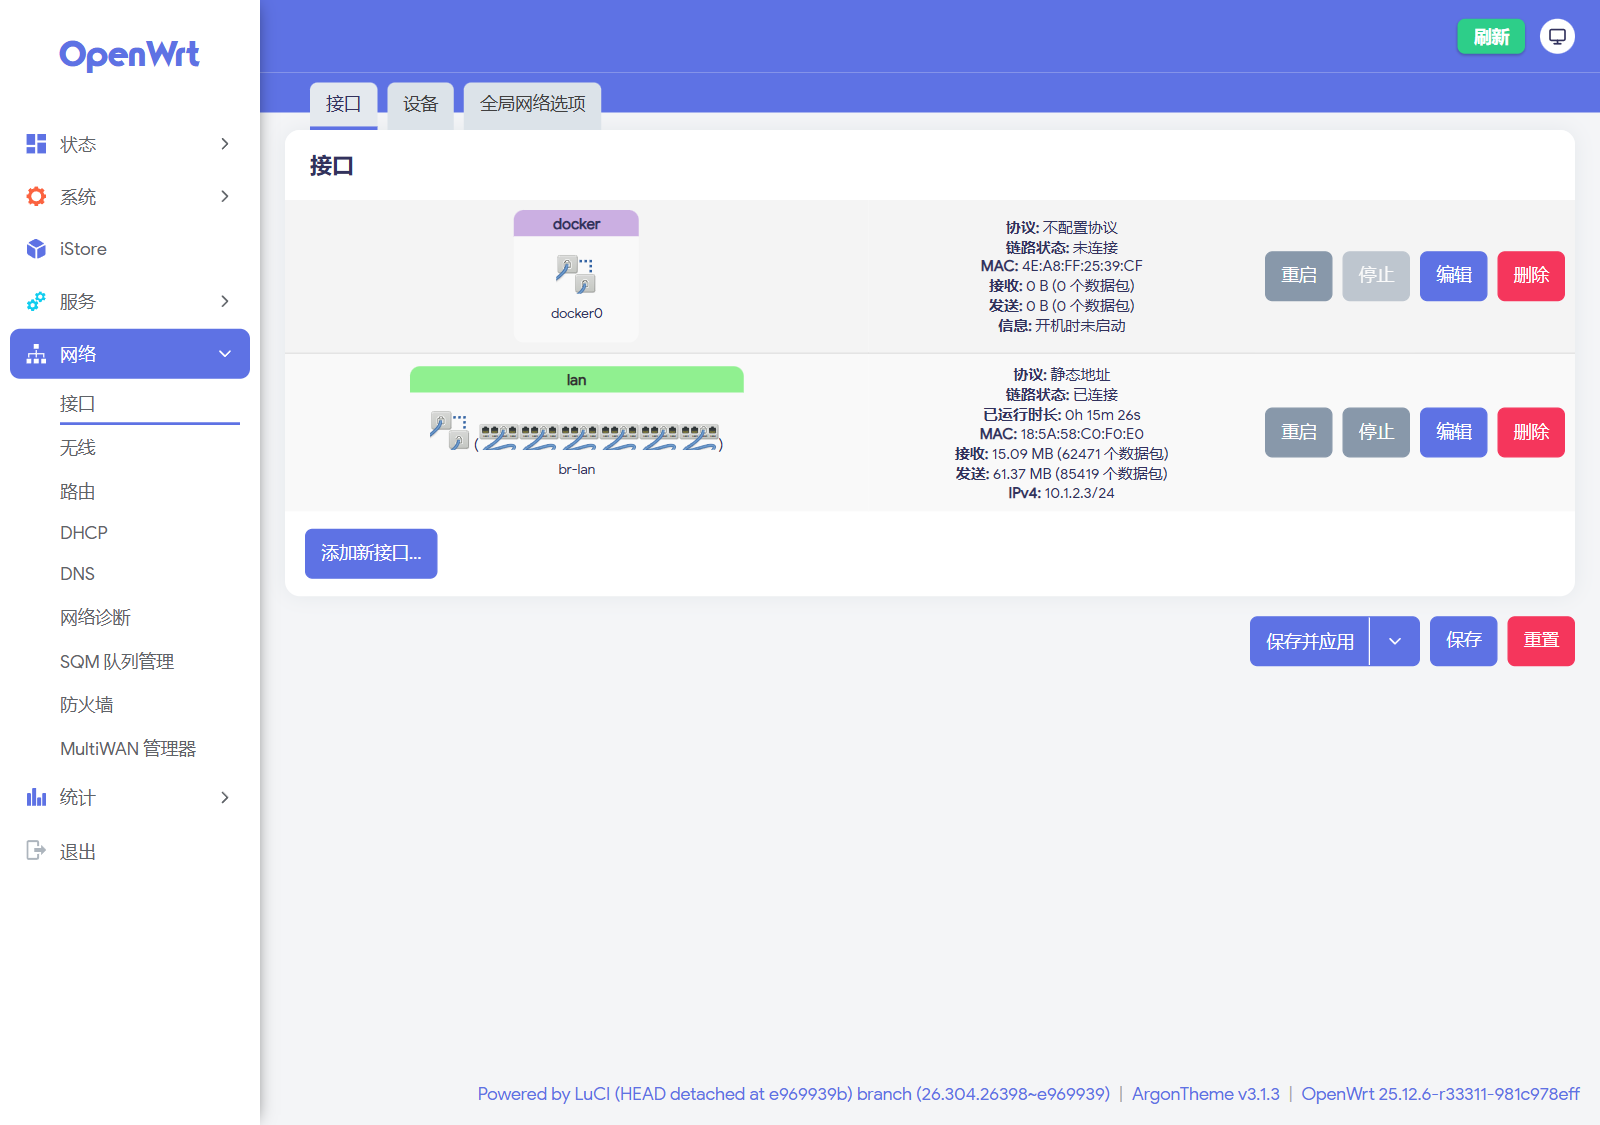
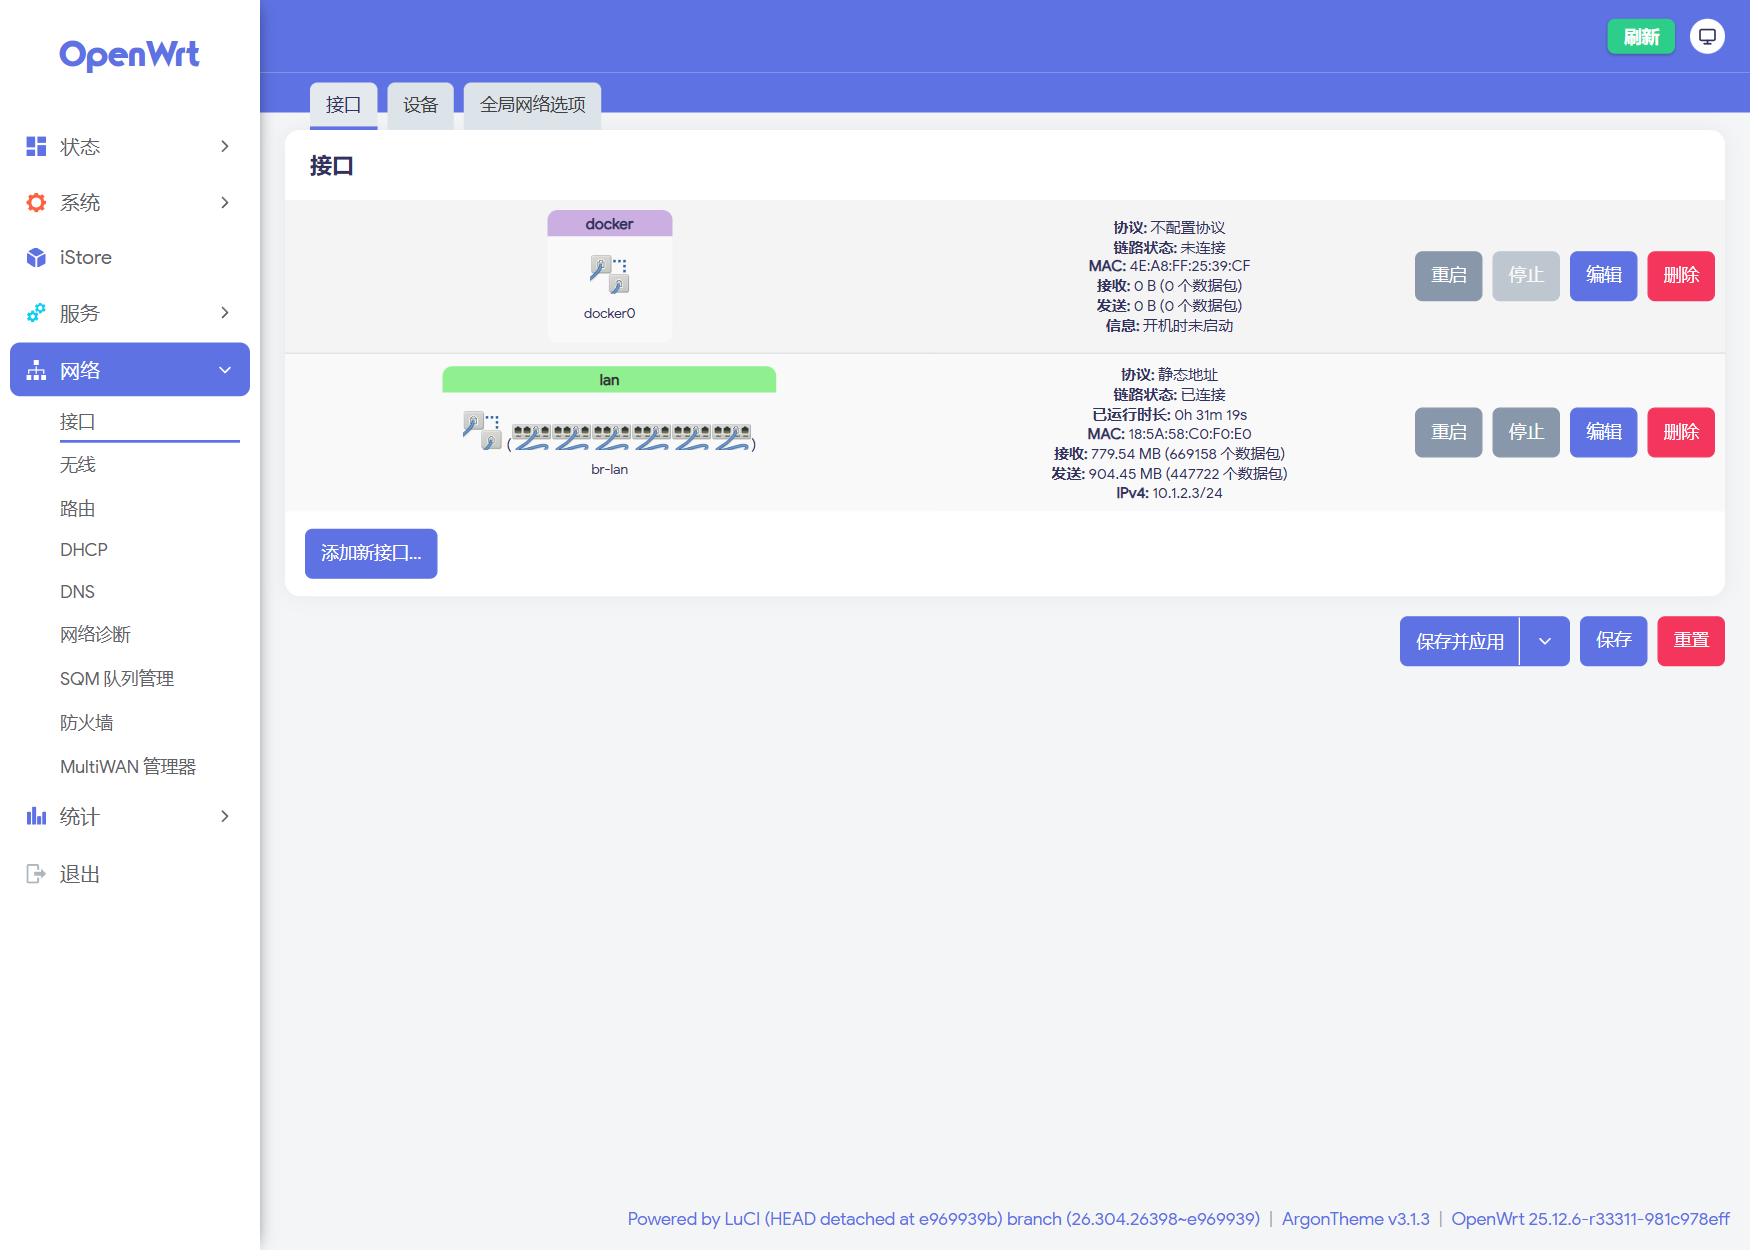
docs: six screenshots, drop handoff references, add English README

diff --git a/README.en.md b/README.en.md
@@ -1,0 +1,205 @@
+# Edge 610 OpenWrt Firmware Build
+
+[简体中文](README.md) | **English**
+
+A full-source OpenWrt image for the **VMware SD-WAN Edge 610** (same hardware as the Dell EMC VEP1400), built by GitHub Actions.
+
+- Target: Intel Atom **C3308** (2C/2T 1.6 GHz, no AVX/AVX2) / 4 GB DDR4 / 16 GB eMMC (`/dev/mmcblk0`, 14.6 GiB usable) / no video output (Micro-USB serial console, 115200 8N1)
+- Network: 2× **1G SFP** (native X553, `ixgbe`) + 6× **1G RJ45** (on-board Marvell 88E6190, DSA `lan1..lan6`) — every port is capped at 1G, see [Port speed limits](#port-speed-limits)
+- Watchdog: on-board PIC hardware WDT (iSMT SMBus `0x22/0x24`); the boot script clears it, otherwise the box reboots after 4–5 minutes
+
+## Screenshots
+
+| Status overview | Network interfaces |
+| --- | --- |
+| ![Status overview](docs/screenshots/01-overview.png) | ![Network interfaces](docs/screenshots/02-network.png) |
+
+| OpenClash | Realtime traffic |
+| --- | --- |
+| ![OpenClash](docs/screenshots/03-openclash.png) | ![Realtime traffic](docs/screenshots/04-realtime.png) |
+
+| Mount points (rootfs already grown) | Docker |
+| --- | --- |
+| ![Mount points](docs/screenshots/05-mounts.png) | ![Docker](docs/screenshots/06-docker.png) |
+
+> Captured on real hardware: Argon v3 theme, Chinese UI. The box in the screenshots uses `10.1.2.3/24`; the image defaults to `192.168.1.1/24`.
+
+## Hardware (measured)
+
+| Item | Value |
+| --- | --- |
+| CPU | `Intel(R) Atom(TM) CPU C3308 @ 1.60GHz` (2C/2T, no AVX/AVX2) |
+| RAM | 4,003,672 kB ≈ 3.8 GiB |
+| eMMC | `mmc0:0001 AJTD4R` 14.6 GiB (`/dev/mmcblk0`; HS400, ~293 MB/s sequential read). Image layout: p1 16M vfat `/boot`, p2 rootfs, p128 239K BIOS boot |
+| NIC | 4× `8086:15c3` X553 Backplane (BIOS reports chip type **X550**) |
+| Port mapping | `eth0` = `03:00.0` = switch CPU link (**CPU port 10**, conduit); `eth1` = `03:00.1` unused; `eth2` = `05:00.0`, `eth3` = `05:00.1` = the two SFP ports |
+| SFP speed | **1G only** (no 2.5G, no 10G). Dell spec: Edge 610 = `2×1G SFP`, only 620/640/680 get `2×10G SFP+`. All four X553 functions are `8086:15c3` = `X550EM_A_KR_L` (1G backplane variant) and the driver returns 1G for that device ID. Forcing 2.5GBASE-X (`x553_speed=2500` + switch `MAC_CTL=0x303f`) still links at 1G |
+| WiFi | `168c:003c` QCA986x/988x (ath10k + `ath10k-firmware-qca988x`) |
+
+> Why not ImageBuilder: the official x86 prebuilt kernel has `CONFIG_NET_DSA` / `MV88E6XXX` disabled, ships no `i2c-ismt`, and cannot compile the out-of-tree modules this board needs. This repo therefore builds OpenWrt 25.12.6 from source.
+
+## Port speed limits
+
+| Interface | Limit | Basis |
+| --- | --- | --- |
+| 6× RJ45 `lan1..lan6` | **1G per port** | Marvell 88E6190 is a gigabit switch |
+| 2× SFP | **1G** | Dell spec: Edge 610 = `2×1G SFP`; X553 is `8086:15c3` (KR_L, 1G backplane) |
+| Internal CPU link (switch ↔ X553) | **1G** | Hardware can be set to 2.5GBASE-X, but forcing it still links at 1G |
+
+- **No 2.5G**: the SFP driver capability table only has 1G/10G; the CPU link does not come up at 2.5G in practice (`x553_speed=2500` + `MAC_CTL=0x303f` still 1G).
+- **No 10G**: 10G SFP+ exists only on Edge 620/640/680 (4/8/16 cores); the 610's X553 is strapped as KR_L (1G).
+- Want 2.5G/10G? Use a 620 or above, or add a USB 2.5G NIC (the image already ships `kmod-usb-net-rtl8152`).
+
+## Build artifacts
+
+After a successful Actions run, download the `Edge610-OpenWrt-Image` artifact (zip):
+
+| File | Description |
+| --- | --- |
+| `openwrt-x86-64-generic-ext4-combined-efi.img.gz` | **Flashable image** (EFI, 1024 MB rootfs, build-system default name) |
+| `edge610-YYYYMMDD-HHMM.img.gz` | Same image with a **timestamped name** (GMT+8; produced by CI and local builds) |
+| `openwrt-x86-64.manifest` | Installed package list |
+| `sha256sums` | Checksums |
+
+## Building
+
+1. Actions → **Build Edge 610 OpenWrt Image** → *Run workflow* (main branch).
+2. About 3.5–4 hours on a 4-core runner (full source build + toolchain). On failure a `build-log` artifact (`build.log` / `dl.log`) is uploaded automatically.
+
+### Local build (recommended for iteration)
+
+CI uses a fresh runner every time and must rebuild rustc + the toolchain (~70% of the time). A local VM keeps the cache: **~75 minutes for the first run, typically 3–10 minutes for later package changes**.
+
+```bash
+# Requirements: Ubuntu 24.04 x86_64, >=8 cores, >=16 GB RAM, >=60 GB free disk (ext4)
+PROXY=http://192.168.68.1:7897 ./scripts/build-local.sh
+```
+
+- `PROXY` is optional: set it when GitHub / OpenWrt mirrors are flaky on your network.
+- The script mirrors CI exactly (same feeds pin, same `.config` seed, same ixgbe autoload strip, same final checks) and is idempotent.
+- Output: `~/work/openwrt/bin/targets/x86/64/openwrt-x86-64-generic-ext4-combined-efi.img.gz`
+- Download resilience is built in: `CURL_OPTIONS` with a 600 s per-file cap and a 60 s low-speed abort, retried 3 times.
+
+## Image contents
+
+| Component | Version / notes |
+| --- | --- |
+| OpenWrt | 25.12.6 (x86_64, kernel 6.12.112) |
+| LuCI | official feed |
+| OpenClash | 0.48.002 (official stable release tag) |
+| Mihomo core | v1.19.33 `linux-amd64-v1` (**no AVX2**, preinstalled at `/etc/openclash/core/clash_meta`) |
+| DNS | `dnsmasq-full` (replaces the default dnsmasq) |
+| Switching | `kmod-dsa` + `kmod-dsa-mv88e6xxx` + this repo's `edge610_dsa` (ports named `lan1..lan6`) |
+| NIC driver | `kmod-ixgbe` (**autoload stripped**, loaded in order by the init script) |
+| Watchdog bus | `kmod-i2c-ismt` + `i2c-tools` |
+| Temperature | `kmod-hwmon-coretemp` + `lm-sensors` (Denverton via MSR; `/sys/class/thermal` has zones) |
+| WiFi | `kmod-ath10k` + `ath10k-firmware-qca988x` (QCA986x/988x on board, no interface configured by default) |
+| Default network | `br-lan` = `lan1..lan6`, static `192.168.1.1/24`; **no WAN preset** (`eth2`/`eth3` left unconfigured for the user to assign in LuCI) |
+| Rootfs | 1 GiB in the image; **grows to the whole eMMC on first boot** (`sfdisk` + `partx` + `resize2fs`) |
+| Theme | **Argon v3** (`jerrykuku/luci-theme-argon`, master; config page is part of the theme since v3) |
+| Base apps | Chinese LuCI, `ttyd` (web terminal), `package-manager`, `statistics`, `ddns`, `sqm`, `wireguard`, `firewall` |
+| Security / certs | `acme` + `uhttpd` (Let's Encrypt HTTPS), `banip` (brute-force bans), `acl` (multi-user permissions) |
+| Virtualization | `lxc` |
+| Acceleration / mesh | `kmod-tcp-bbr` (BBR congestion control), `zerotier` (via iStore GUI), `luci-app-wifischedule` |
+| Time / speed / traffic | `chrony` (precise time), `librespeed` (LAN speed test, verifies gigabit line rate), `vnstat2` (traffic history) |
+| Networking | `mwan3` (multi-WAN, pairs with the two SFP ports), `pbr` (policy routing), `upnp`, `nlbwmon`, `wol`, `udpxy` (IPTV multicast-to-unicast), `omcproxy`, `watchcat` (auto recovery), `lldpd` |
+| DNS / ad blocking | **not preset** (`apk add luci-app-adguardhome` / `luci-app-smartdns` / `luci-app-adblock-fast` as needed) |
+| Storage / sharing | `ksmbd` (SMB), `hd-idle`, `filebrowser` (aria2/transmission via `apk add`) |
+| Disks / filesystems | `kmod-fs-exfat` / `vfat` / `ntfs3`, `kmod-usb-printer`, `e2fsprogs`, `smartmontools`, `hdparm` |
+| Operations | `commands`, `irqbalance`, `p910nd` (USB printing), `ser2net`, `filemanager` |
+| VPN / tunneling | kernel + protocol only (`kmod-wireguard`, `wireguard-tools`, `luci-proto-wireguard`); openvpn/tailscale/frpc via `apk add` |
+| Containers | **Docker built in**: `dockerd`/`containerd`/`runc`/`tini`/`docker` CLI/`docker-compose` + `luci-app-dockerman` (kernel deps veth/ipt-nat/ipt-physdev/nf-ipvs included) |
+| Diagnostics | `ethtool` `tcpdump` `htop` `mtr` `iperf3` `iftop` `bind-host`(dig) `nano` `pciutils`(lspci) `usbutils`(lsusb) `lm-sensors` `block-mount` |
+| USB expansion | `kmod-usb-net-rtl8152` / `asix-ax88179` / `cdc-ether` (USB NIC or phone tethering as WAN), `kmod-usb-storage`, `kmod-fs-ext4` |
+
+## Repository layout
+
+```
+.github/workflows/build.yml       full-source build pipeline (14 steps, assertions + image checks)
+patches/openwrt/0001-image-mkfs-ext4-use-mke2fs.patch  build the rootfs with mke2fs (online resize)
+package/edge610-board/
+├── Makefile                      three kernel packages + board package
+├── src/
+│   ├── edge610_switch_standalone.c  initialise X553/switch before ixgbe probes
+│   ├── edge610_dsa.c                register the 88E6190 DSA (ports lan1..lan6)
+│   └── Makefile
+└── files/
+    ├── etc/init.d/edge610           watchdog off + ordered bring-up (standalone -> ixgbe -> DSA)
+    ├── etc/modprobe.d/edge610.conf  board module parameters
+    ├── etc/uci-defaults/zzz99-edge610-network  first-boot network (LAN only, no WAN)
+    └── etc/openclash/core/          clash_meta downloaded by CI (gitignored)
+```
+
+### Key design notes
+
+- **Load order**: `ixgbe` autoload is removed at build time; `/etc/init.d/edge610` (START=19, before network) runs:
+  `insmod edge610_switch_standalone cpu_port=0 x553_sgmii=1 cpu_mac_ctl=0x203e serdes_autoneg=1` → `modprobe ixgbe` → `modprobe mv88e6xxx` → `insmod edge610_dsa conduit_name=<ethX> force_cpu_phyctl=0x203e`.
+  (busybox `modprobe` silently drops `name=value` arguments, so the board modules are loaded with `insmod`.)
+- **Conduit detection**: prefer the netdev of PCI `0000:03:00.0`; fall back to the ixgbe port with the lowest MAC (the conduit is the first of four consecutive X553 MACs). The conduit is only brought up, never assigned an address.
+- **Watchdog**: scan `/sys/bus/i2c/devices/*/name` for the `iSMT` adapter and write `0x00` to `0x22`/`0x24`; failures are logged but never block boot.
+- **Port renaming**: `edge610_dsa` renames the upstream `ge1..ge6` ports to `lan1..lan6`, matching OpenWrt DSA conventions and the default network config.
+- **Rootfs**: `CONFIG_TARGET_ROOTFS_PARTSIZE=1024` (the 104 MB default cannot hold mihomo + ruby); `zzz98-edge610-resize` grows it to the whole disk on first boot.
+  This requires the image to be built with `mkfs.ext4` instead of OpenWrt's default `make_ext4fs`: the latter's resize inode layout makes the kernel reject online growth with
+  `reserve_backup_gdb: reserved block 64 not at offset 63` ([openwrt#7729](https://github.com/openwrt/openwrt/issues/7729)).
+  This repo replaces `Image/mkfs/ext4` via `patches/openwrt/0001-image-mkfs-ext4-use-mke2fs.patch` (running under fakeroot with `chown -R 0:0` so files stay root-owned).
+
+## Flashing
+
+> Use an image built from this repo (mke2fs patch applied). Images built with OpenWrt's default `make_ext4fs` fail the first-boot online resize (openwrt/openwrt#7729).
+
+1. Prepare a USB stick: one OpenWrt boot disk plus an exfat data partition, and put `edge610-*.img.gz` on the data partition.
+2. Remove the small rear cover to expose the Micro-USB console (CP210x); PuTTY: `115200 8N1`, no flow control.
+3. Boot from the USB stick (F12), then:
+
+   ```sh
+   lsblk                                   # /dev/mmcblk0 is the eMMC
+   mkdir -p /mnt/usb && mount /dev/sdbX /mnt/usb
+   gzip -dc /mnt/usb/edge610-*.img.gz | dd of=/dev/mmcblk0 bs=4M conv=fsync
+   sync
+   ```
+
+4. Remove the USB stick and `reboot`. On first boot `zzz98-edge610-resize` grows the rootfs to the whole disk;
+   `df -h /` should show ~14.3G (log: `logread -e edge610-resize`).
+
+## Post-flash checks
+
+On the serial console:
+
+```sh
+ip link                     # lan1..lan6 present (+ lo and the ethX ports)
+logread -e edge610          # watchdog cleared, conduit, port-up messages
+df -h /                     # ~14.3G when booted from eMMC (first-boot growth)
+sensors                     # Core 0 / Core 1 temperatures (kmod-hwmon-coretemp)
+/etc/openclash/core/clash_meta -v   # must print Mihomo Meta ... linux amd64 (amd64-v1)
+```
+
+- Idle for ≥10 minutes without a reboot → the watchdog is really off.
+- Plug a cable into **LAN1** and open `http://192.168.1.1` → LuCI.
+- Services → OpenClash: load a subscription and start the proxy.
+
+## Build-time pitfalls
+
+The full debug timeline (evidence, serial logs, build times) is in [`docs/bringup-log.md`](docs/bringup-log.md).
+
+| Pitfall | Symptom | Fix |
+| --- | --- | --- |
+| BIOS hides P2SB (`8086:19dd` missing from `lspci`) | module silently returns `-ENODEV`, `ixgbe` never loads, only `lo` exists | the module derives the BAR from `/proc/iomem` (`INTC3000:00`, `0xFD000000` here); override with `p2sb_bar_addr=` |
+| uci section names reject `-` | `uci: Parse error (invalid character in name field)`, bridge not applied | anonymous `config device` + `option name 'br-lan'` (asserted at build time) |
+| `make download` has no overall timeout | half-dead connections hang forever, the build looks stuck | `CURL_OPTIONS=--max-time 600 --speed-time 60 --speed-limit 1024` + retries |
+
+## Troubleshooting
+
+| Symptom | What to do |
+| --- | --- |
+| `ip link` shows no `lan1..lan6` | check `logread -e edge610` for `edge610_switch_standalone` / `edge610_dsa` errors; `dmesg \| grep -i -E 'dsa\|mv88e'`; `lsmod \| grep -E 'edge610\|mv88e\|dsa'` |
+| `P2SB BAR unavailable` in the log | this BIOS hides P2SB (`8086:19dd` is not in `lspci`). The module derives the BAR from `/proc/iomem` (`INTC3000:00`, usually `0xfd000000`); if that fails, pass it manually: `modprobe edge610_switch_standalone p2sb_bar_addr=0xfd000000 ...` and `modprobe edge610_dsa conduit_name=ethX p2sb_bar_addr=0xfd000000` |
+| Reboots every 4–5 minutes | watchdog still armed: `logread -e edge610` should not contain `iSMT SMBus adapter not found`. Check manually: `modprobe i2c-ismt; grep . /sys/bus/i2c/devices/*/name`, then `i2cset -y <bus> 0x22 0 0 b` |
+| Mihomo prints `Illegal instruction` | the core was replaced with a v2/v3 (AVX) build. Only `linux-amd64-v1` works; put it back at `/etc/openclash/core/clash_meta` |
+| No WAN | no WAN is preset: `br-lan` only contains `lan1..lan6`, and `eth2`/`eth3` (SFP) stay unconfigured. Create one in LuCI → Network → Interfaces, choosing `lan1..lan6` or `eth2/eth3` (the `conduit:` port from `logread -e edge610` is the switch uplink — **never** assign it an address) |
+| More `ethX` ports than expected | X553 has four MACs and the enumerated count depends on the BIOS; trust the `conduit:` line and the physical cabling |
+
+## Modifying and rebuilding
+
+- To change the image: edit `package/edge610-board/` or the `.config` seed in the workflow → commit/push → re-run Actions.
+- Key packages in the `.config` seed are asserted at build time (grep after defconfig); a missing package fails the build instead of producing a wrong image.
+- Final checks: the image exists and has a sane size, the manifest contains the key packages, the rootfs contains the modules and scripts, and `clash_meta` is executable and prints Mihomo.

diff --git a/README.md b/README.md
@@ -1,5 +1,7 @@
 # Edge 610 OpenWrt 固件自动构建
 
+**简体中文** | [English](README.en.md)
+
 为 **VMware SD-WAN Edge 610**（Dell EMC VEP1400 同款硬件）定制的 OpenWrt 镜像，GitHub Actions 一键全源码构建。
 
 - 目标机：Intel Atom **C3308**（2C/2T 1.6GHz，无 AVX/AVX2）/ 4GB DDR4 / 16GB eMMC（`/dev/mmcblk0`，14.6GiB 可用）/ 无显示输出（Micro-USB 串口 115200 8N1）
@@ -12,17 +14,21 @@
 | --- | --- |
 | ![状态概览](docs/screenshots/01-overview.png) | ![网络接口](docs/screenshots/02-network.png) |
 
-| OpenClash |
-| --- |
-| ![OpenClash](docs/screenshots/03-openclash.png) |
+| OpenClash | 实时流量 |
+| --- | --- |
+| ![OpenClash](docs/screenshots/03-openclash.png) | ![实时流量](docs/screenshots/04-realtime.png) |
 
-> 截图为实机 LuCI（Argon v3 + 中文），该机 LAN 已改为 `10.1.2.3/24`；镜像默认是 `192.168.1.1/24`。
+| 挂载点（根分区已扩容） | Docker |
+| --- | --- |
+| ![挂载点](docs/screenshots/05-mounts.png) | ![Docker](docs/screenshots/06-docker.png) |
+
+> 实机截图：Argon v3 主题 + 中文界面。该机 LAN 为 `10.1.2.3/24`，镜像默认 `192.168.1.1/24`。
 
 ## 硬件实测（本机）
 
 | 项目 | 实测值 |
 | --- | --- |
-| CPU | `Intel(R) Atom(TM) CPU C3308 @ 1.60GHz`（交接文档里写的 C3338 是错的） |
+| CPU | `Intel(R) Atom(TM) CPU C3308 @ 1.60GHz`（2C/2T，无 AVX/AVX2） |
 | 内存 | 4,003,672 kB ≈ 3.8 GiB |
 | eMMC | `mmc0:0001 AJTD4R` 14.6 GiB（`/dev/mmcblk0`；HS400，实测顺序读 ~293 MB/s。镜像布局：p1 16M vfat `/boot`、p2 rootfs、p128 239K BIOS boot） |
 | 网卡 | 4× `8086:15c3` X553 Backplane（BIOS 显示 Chip Type **X550**） |
